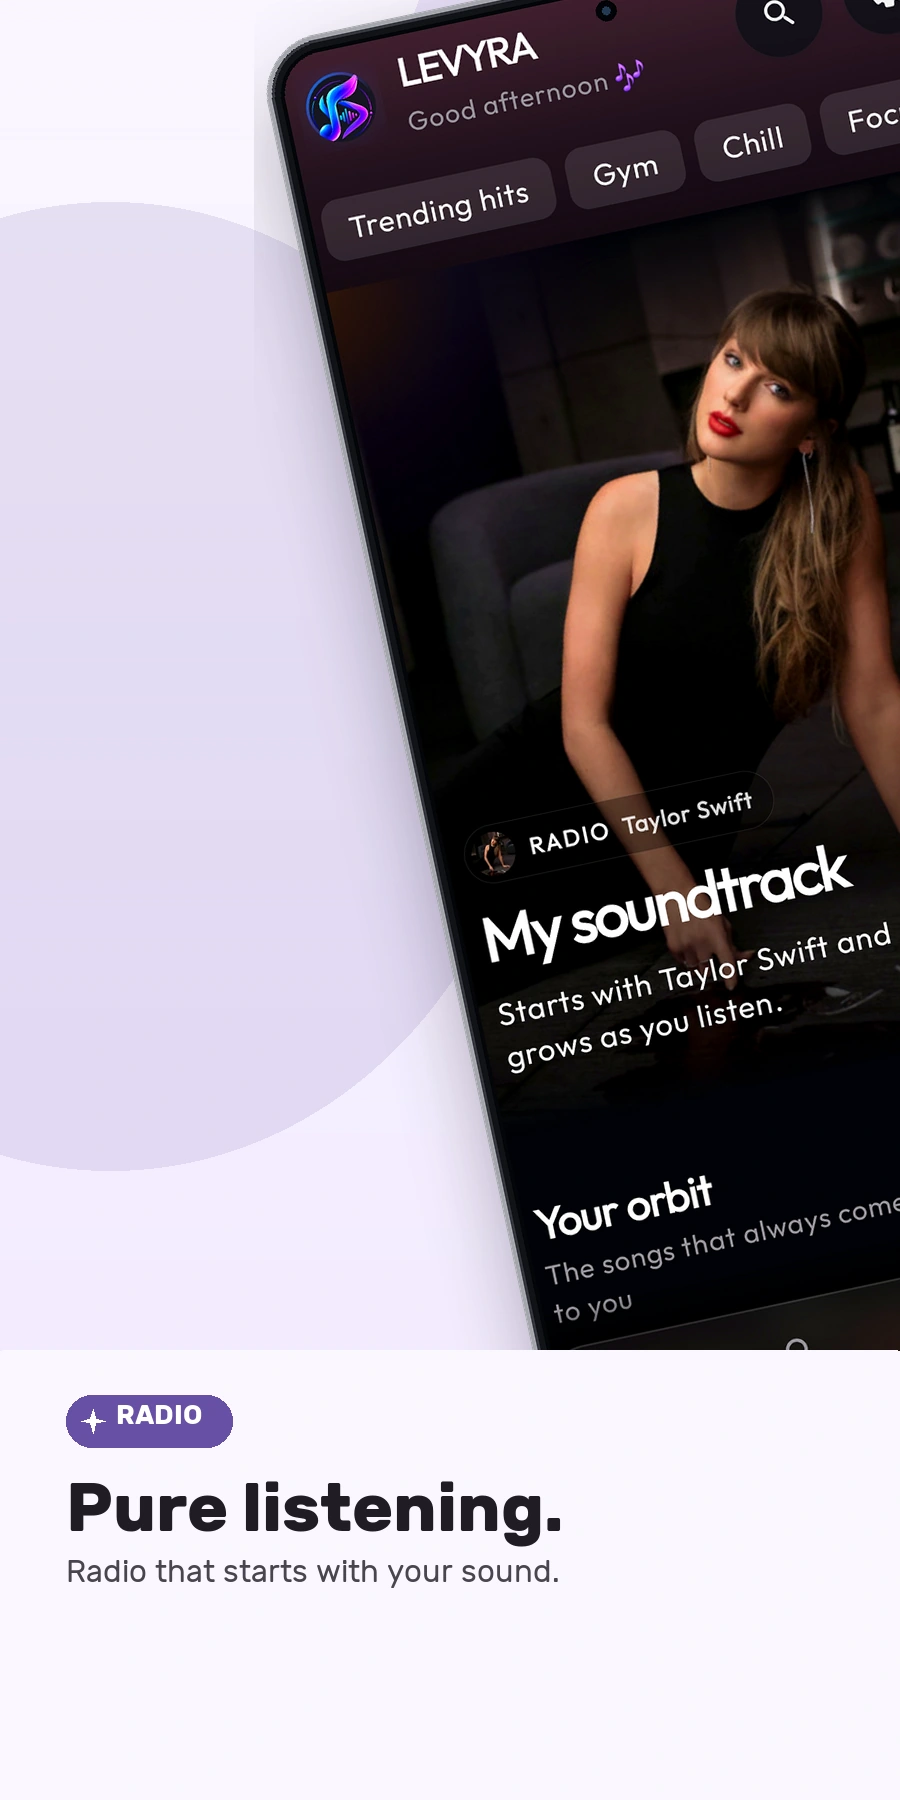
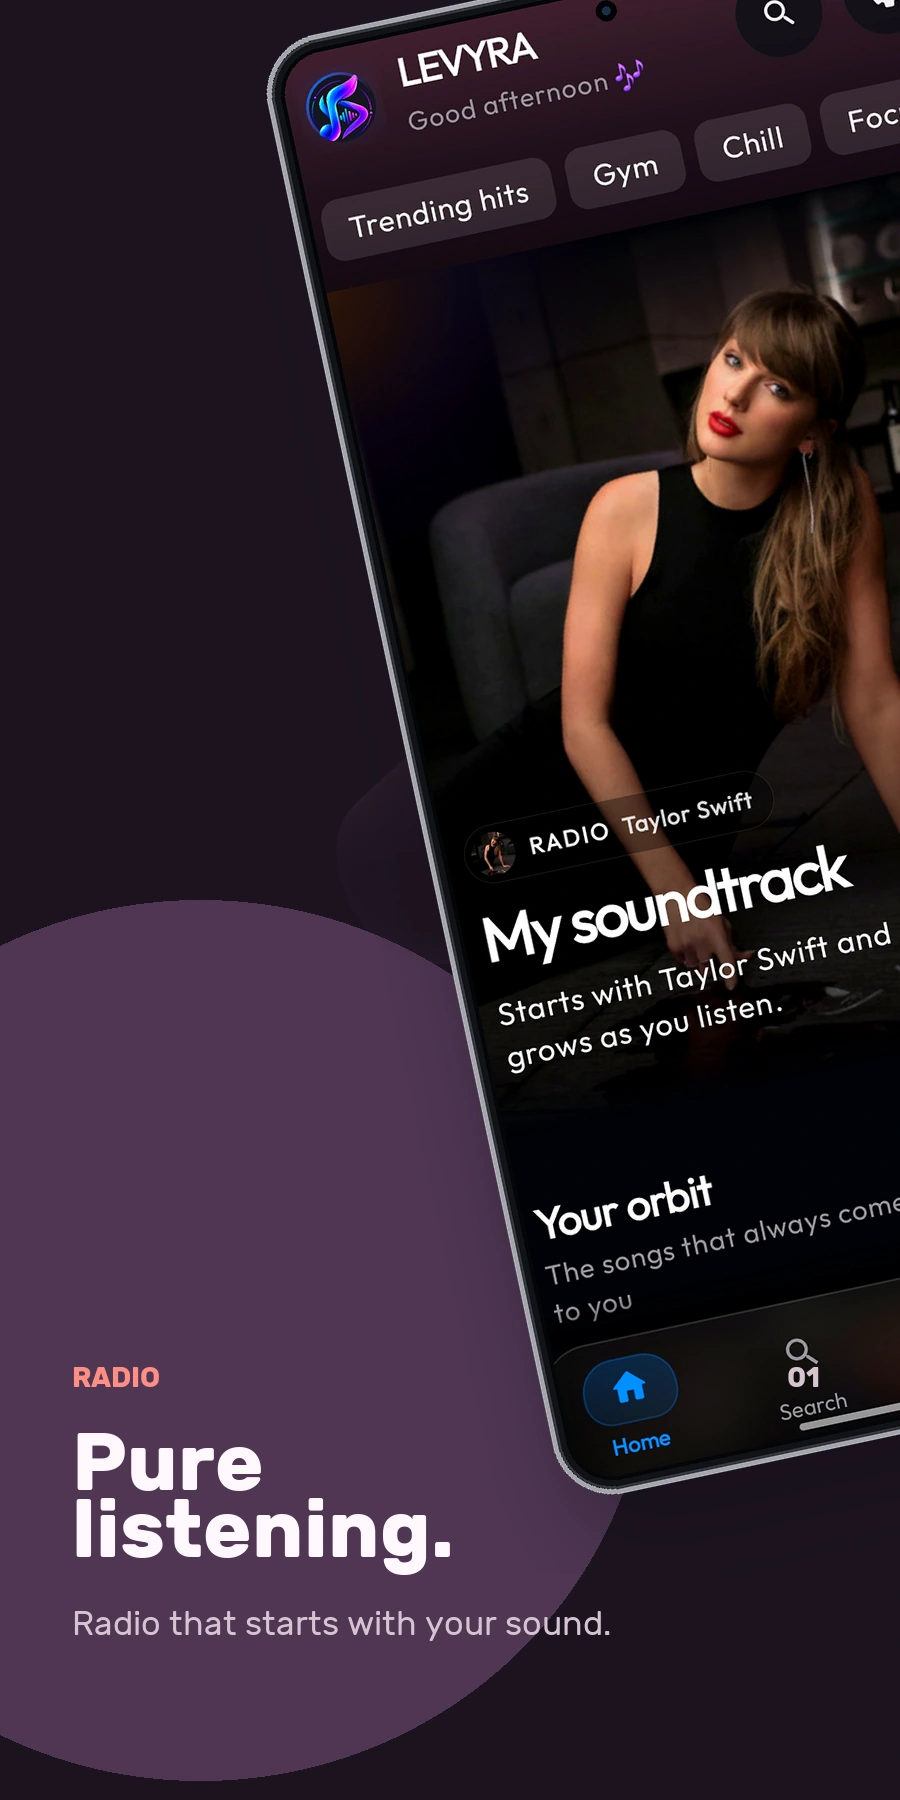
docs: refresh orbit showcase asset

diff --git a/scripts/generate_showcase_assets.py b/scripts/generate_showcase_assets.py
@@ -759,61 +759,6 @@ def draw_readme_card_shapes(draw, theme, variant):
         draw.ellipse((-240, 700, 510, 1460), fill=theme["shape"] + (255,))
         draw.ellipse((580, -190, 1100, 330), fill=theme["shape"] + (190,))
 
-def draw_orbit_readme_copy(card, spec, placement):
-    draw = ImageDraw.Draw(card)
-    _, kicker, title, body, _ = spec
-    scale = 1.125
-    surface = (250, 247, 255, 255)
-    primary = (103, 80, 164, 255)
-    on_surface = (32, 29, 36, 255)
-    on_surface_variant = (73, 69, 79, 255)
-    x = 66
-    y = round((48 if placement == "top" else 1240) * scale)
-    if placement == "bottom":
-        draw.rounded_rectangle(
-            (-70, round(1200 * scale), 970, 1800),
-            radius=82,
-            fill=surface,
-        )
-    label_font = get_font(27, bold=True)
-    label_box = draw.textbbox((0, 0), kicker, font=label_font)
-    label_width = label_box[2] - label_box[0]
-    draw.rounded_rectangle((x, y, x + label_width + 80, y + 52), radius=26, fill=primary)
-    draw_vector_sparkle(draw, x + 27, y + 26, 12, (255, 255, 255, 255))
-    draw.text((x + 50, y + 10 - label_box[1]), kicker, font=label_font, fill=(255, 255, 255, 255))
-    title_y = y + 72
-    title_font = fit_title_font(draw, title.replace("\n", " "), 768, initial_size=68, minimum_size=50)
-    draw.text((x, title_y), title.replace("\n", " "), font=title_font, fill=on_surface)
-    draw.text((x, title_y + 86), body, font=get_font(31), fill=on_surface_variant)
-
-def render_orbit_readme_pair(left_spec, right_spec):
-    card_w, card_h = 900, 1800
-    pair_w = card_w * 2
-    surface = np.array((250, 247, 255), dtype=np.float32)
-    container = np.array((234, 221, 255), dtype=np.float32)
-    pixels = np.zeros((card_h, pair_w, 4), dtype=np.uint8)
-    for y in range(card_h):
-        progress = y / float(card_h)
-        pixels[y, :, :3] = (surface * (1 - progress * 0.55) + container * (progress * 0.55)).astype(np.uint8)
-    pixels[:, :, 3] = 255
-    canvas = Image.fromarray(pixels, mode="RGBA")
-    shapes = Image.new("RGBA", canvas.size, (0, 0, 0, 0))
-    draw = ImageDraw.Draw(shapes)
-    scale = 1.125
-    draw.ellipse((380, round(-330 * scale), 1460, round(720 * scale)), fill=(232, 222, 248, 220))
-    draw.ellipse((-320, round(180 * scale), 540, round(1040 * scale)), fill=(103, 80, 164, 34))
-    draw.ellipse((1190, round(760 * scale), 2050, round(1620 * scale)), fill=(103, 80, 164, 30))
-    canvas = Image.alpha_composite(canvas, shapes)
-
-    paste_campaign_device(canvas, left_spec[4], 700, angle=12, top_left=(230, round(-110 * scale)))
-    paste_campaign_device(canvas, right_spec[4], 700, angle=-9, top_left=(card_w + 160, round(315 * scale)))
-
-    left = canvas.crop((0, 0, card_w, card_h))
-    right = canvas.crop((card_w, 0, pair_w, card_h))
-    draw_orbit_readme_copy(left, left_spec, "bottom")
-    draw_orbit_readme_copy(right, right_spec, "top")
-    return left.convert("RGB"), right.convert("RGB")
-
 def render_readme_card(spec, index):
     theme_order = [0, 1, 2, 3, 3, 0, 1, 2, 1, 2, 3, 0, 2, 3, 0, 1]
     variant_order = [0, 1, 2, 3, 2, 3, 0, 1, 1, 0, 3, 2, 3, 2, 1, 0]
@@ -831,18 +776,18 @@ def render_readme_card(spec, index):
         paste_campaign_device(
             canvas,
             screenshot,
-            760,
+            700,
             angle=12,
-            top_left=(230, -110),
+            top_left=(230, -124),
         )
         draw_readme_card_copy(draw, spec, theme, index, (72, 1360))
     elif index == 1:
         paste_campaign_device(
             canvas,
             screenshot,
-            760,
+            700,
             angle=-9,
-            top_left=(160, 315),
+            top_left=(160, 354),
         )
         draw_readme_card_copy(draw, spec, theme, index, (72, 70))
     else:
@@ -871,16 +816,6 @@ def generate_readme_cards():
     os.makedirs(README_CARD_DIR, exist_ok=True)
     cards = []
     for index, spec in enumerate(README_CARD_SPECS):
-        if index == 0:
-            left_card, right_card = render_orbit_readme_pair(spec, README_CARD_SPECS[1])
-            for artwork, artwork_spec in ((left_card, spec), (right_card, README_CARD_SPECS[1])):
-                cards.append(artwork)
-                out_path = os.path.join(README_CARD_DIR, artwork_spec[0] + ".webp")
-                artwork.save(out_path, "WEBP", quality=94, method=6)
-                print(f"Saved README editorial card at {artwork.size}: {out_path}")
-            continue
-        if index == 1:
-            continue
         artwork = render_readme_card(spec, index)
         cards.append(artwork)
         out_path = os.path.join(README_CARD_DIR, spec[0] + ".webp")
@@ -890,7 +825,12 @@ def generate_readme_cards():
         row = Image.new("RGB", (3600, 1800))
         for column in range(4):
             row.paste(cards[row_index * 4 + column], (column * 900, 0))
-        out_path = os.path.join(README_CARD_DIR, f"editorial-grid-row-{row_index + 1:02d}.webp")
+        row_filename = (
+            "editorial-grid-row-01-orbit-reference.webp"
+            if row_index == 0
+            else f"editorial-grid-row-{row_index + 1:02d}.webp"
+        )
+        out_path = os.path.join(README_CARD_DIR, row_filename)
         row.save(out_path, "WEBP", quality=95, method=6)
         print(f"Saved four-card README row at {row.size}: {out_path}")
 

diff --git a/README.md b/README.md
@@ -125,7 +125,7 @@ Enhanced Audio is on by default and can be turned off in Audio Settings. Technic
 </p>
 
 <div align="center">
-<div><img src="docs/assets/showcase/editorial-cards/editorial-grid-row-01.webp?v=editorial-orbit-reference-v8" width="900" align="top" alt="Levyra showcase: radio, now playing, lyrics, and offline albums" /></div>
+<div><img src="docs/assets/showcase/editorial-cards/editorial-grid-row-01-orbit-reference.webp" width="900" align="top" alt="Levyra showcase: radio, now playing, lyrics, and offline albums" /></div>
 <div><img src="docs/assets/showcase/editorial-cards/editorial-grid-row-02.webp?v=editorial-orbit-reference-v8" width="900" align="top" alt="Levyra showcase: discovery, mixes, moods, and audio controls" /></div>
 <div><img src="docs/assets/showcase/editorial-cards/editorial-grid-row-03.webp?v=editorial-orbit-reference-v8" width="900" align="top" alt="Levyra showcase: library, collections, insights, and home" /></div>
 <div><img src="docs/assets/showcase/editorial-cards/editorial-grid-row-04.webp?v=editorial-orbit-reference-v8" width="900" align="top" alt="Levyra showcase: settings, new releases, artists, and Jam" /></div>
